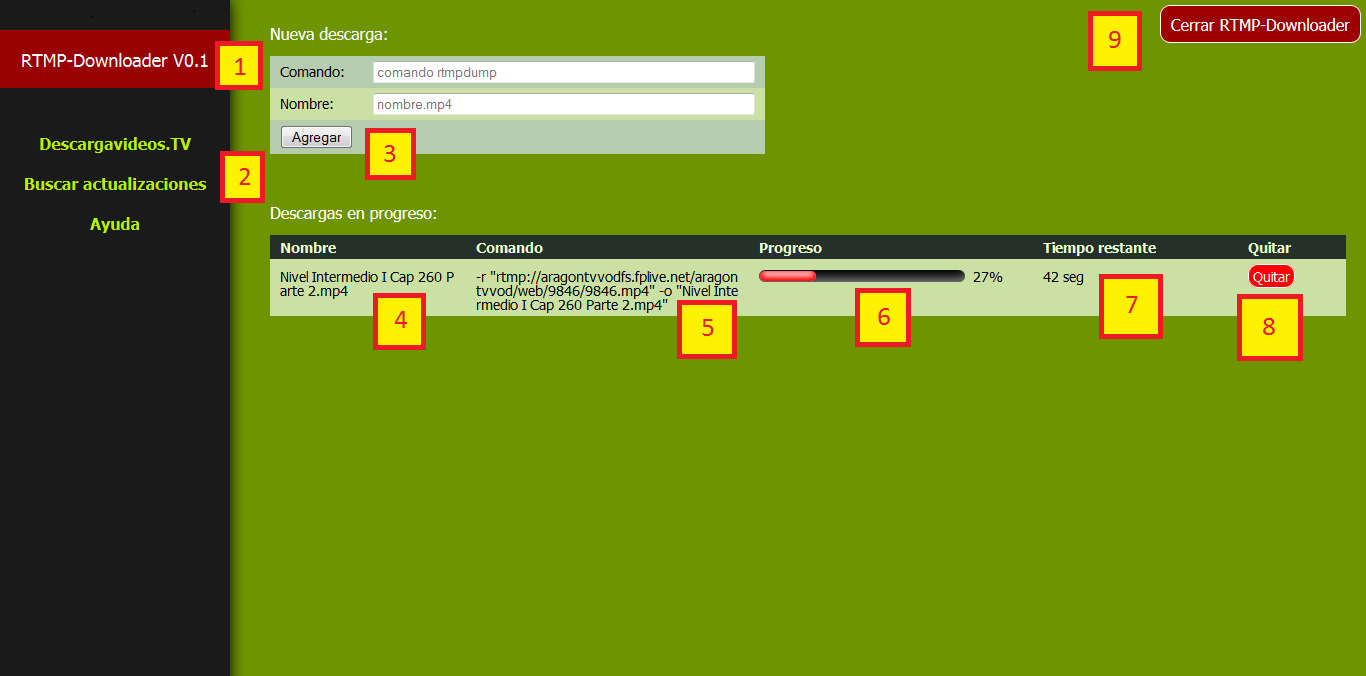
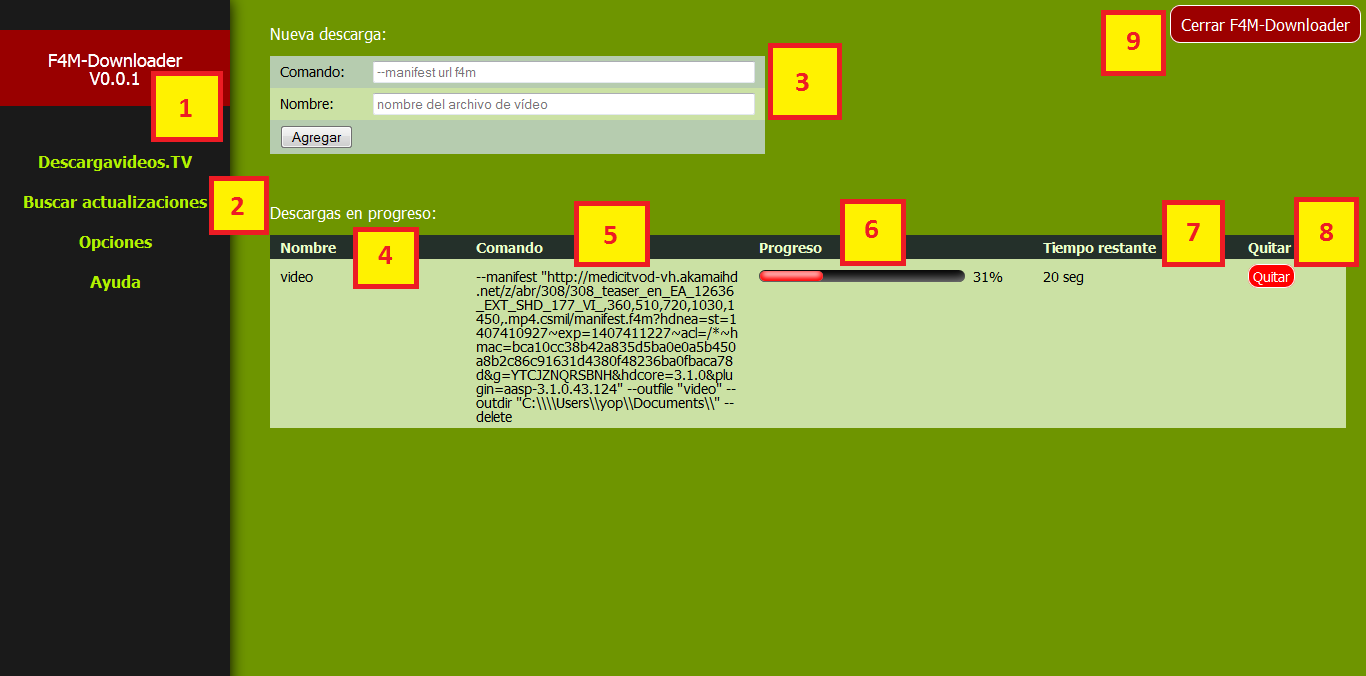
HTML Updated. Help image updated.

diff --git a/Project files/F4M-Downloader/HTML.cs b/Project files/F4M-Downloader/HTML.cs
@@ -147,12 +147,12 @@ public static class HTML
 					"<img src=\"/ayuda/ayuda_prev.png\" class=\"img_ayuda\">" +
 					"<ol>" +
 						"<li>Versión del programa." +
-							"<br>En el caso de la imagen se trata de la versión 0.1.<br>" +
+							"<br>En el caso de la imagen se trata de la versión 0.0.1.<br>" +
 							"Si queremos buscar actualizaciones, se entenderá como una versión superior aquella que tenga un número mayor que el actual, siendo por ejemplo la versión 2.0 superior a la 1.5 y a su vez superior a la versión 0.3.</li>" +
 						"<li>Enlace a la sección de versiones del programa en Descargavideos.<br>" +
 							"Al hacer clic en el enlace se abrirá una página con el listado de versiones publicadas donde podrás descargar la más reciente o cualquiera de las versiones anteriores.</li>" +
 						"<li>Formulario para agregar nuevas descargas.<br>" +
-							"En caso de querer agregar manualmente una descarga, introduce la url del archivo f4m y escribe el nombre que quieres que tenga el vídeo en el campo Nombre (En caso de no indicar un nombre se usara el nombre especificado en el comando). El nombre del vídeo debe tener la extensión del archivo, siendo un nombre válido por ejemplo <i>video</i> o <i>capítulo 15</i>. El nombre puede dejarse en blanco.<br>Una vez completado el formulario al clicar <i>Agregar</i> comenzará la descarga del vídeo.</li>" +
+							"En caso de querer agregar manualmente una descarga, introduce la url del archivo f4m siguiendo el patrón (--manifest \"URL\"), sin los paréntesis y cambiando URL por la url del archivo f4m. Eescribe el nombre que quieres que tenga el vídeo en el campo Nombre (En caso de no indicar un nombre se usara el nombre especificado en el comando). El nombre del vídeo debe tener la extensión del archivo, siendo un nombre válido por ejemplo <i>video</i> o <i>capítulo 15</i>. El nombre puede dejarse en blanco.<br>Una vez completado el formulario al clicar <i>Agregar</i> comenzará la descarga del vídeo.</li>" +
 						"<li>Nombre del archivo tal y como figura en la carpeta que lo contiene.</li>" +
 						"<li>URL del manifest F4M que contiene las indicaciones para descargar el vídeo.</li>" +
 						"<li>Progreso de la descarga.<br>" +
@@ -163,7 +163,7 @@ public static class HTML
 							"En caso de que la descarga no esté finalizada detendrá la descarga y la quitará de la lista, dejando el archivo incompleto en la carpeta de descargas.<br>" +
 							"En caso de que la descarga esté finalizada, únicamente la quitará de la lista.</li>" +
 						"<li>Cerrar el programa.<br>" +
-							"Para cerrar el programa se debe de hacer clic en el botón. Al hacerlo, se mostrará una pregunta. En caso de que aceptemos, todas las descargas incompletas en curso se interrumpirán y después se cerrará el programa. De lo contrario únicamente se cerrará el programa. Una vez hecho esto cargará una nueva página en la que indicará que se puede cerrar la consola. La ventana negra que se abre junto con el programa.<br>En caso de cerrar esta ventana sin clicar antes en el botón de cerrar dejará las descargas en proceso abiertas, por lo que para detenerlas sería necesario cerrar el proceso en cuestión.</li>" +
+							"Para cerrar el programa se debe de hacer clic en el botón. Al hacerlo, se mostrará una pregunta. En caso de que aceptemos, todas las descargas incompletas en curso se interrumpirán y después se cerrará el programa. De lo contrario no se cerrará el programa. Una vez hecho esto cargará una nueva página en la que indicará que el programa se ha cerrado con éxito.<br>En caso de cerrar la consola (la ventana negra) en lugar de clicar en el botón de cerrar dejará las descargas en proceso abiertas, por lo que para detenerlas sería necesario cerrar el proceso en cuestión.</li>" +
 					"</ol>" +
 					"<a href=\"/\">atras</a>" +
 				"</div>" +
